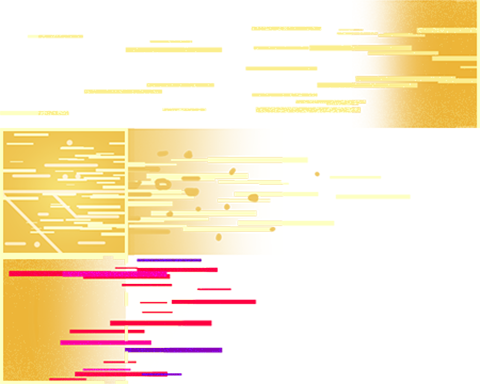
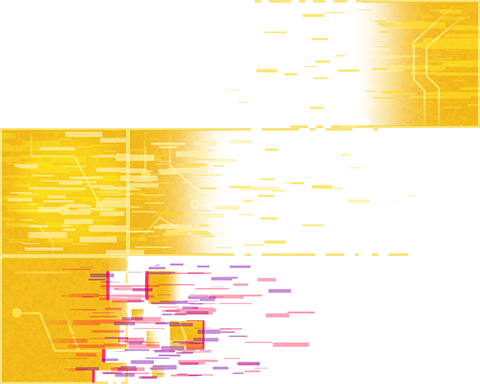
Sidetrack - Final UI implementation
Adding a few new assets and replacing placeholder art.
https://phabricator.endlessm.com/T26372

diff --git a/com.endlessm.Sidetrack/app/js/scenes/gameScene.js b/com.endlessm.Sidetrack/app/js/scenes/gameScene.js
@@ -130,7 +130,13 @@ class GameScene extends Phaser.Scene {
 
     create() {
         // create bg sprite
-        const bg = this.add.sprite(0, 0, 'background');
+        let bg;
+        if (globalParameters.currentLevel >= 40)
+            bg = this.add.sprite(0, 0, 'background3'); // for final and bonus level
+        else if (globalParameters.currentLevel >= 14)
+            bg = this.add.sprite(0, 0, 'background2'); // auto mode levels
+        else
+            bg = this.add.sprite(0, 0, 'background1'); // manual and default
 
         // change the origin to the top-left corner
         bg.setOrigin(0, 0);
@@ -536,9 +542,9 @@ class GameScene extends Phaser.Scene {
 
             if (this.obstacles[i].type === ROBOTB) {
                 if (this.robotBDirection === 'down')
-                    this.obstacles[i].sprite.setFrame(2);
-                else
                     this.obstacles[i].sprite.setFrame(3);
+                else
+                    this.obstacles[i].sprite.setFrame(2);
             }
         }
     }
@@ -696,7 +702,7 @@ class GameScene extends Phaser.Scene {
 
     drawTiles() {
         const minTile = 0;
-        const maxTiles = 4;
+        const maxTiles = 9;
 
         let x;
         let y;
@@ -953,9 +959,9 @@ class GameScene extends Phaser.Scene {
             }
 
             if (this.obstacles[i].type === ROBOTB) {
-                sprite = this.add.sprite(0, 0, 'robots', 3).setDepth(1);
+                sprite = this.add.sprite(0, 0, 'robots', 2).setDepth(1);
                 if (this.robotBDirection === 'down')
-                    sprite.setFrame(2);
+                    sprite.setFrame(3);
             }
 
             this.obstacles[i].sprite = sprite;

diff --git a/com.endlessm.Sidetrack/app/js/scenes/loadingScene.js b/com.endlessm.Sidetrack/app/js/scenes/loadingScene.js
@@ -34,7 +34,10 @@ class LoadingScene extends Phaser.Scene {
         }, this);
 
         // load assets
-        this.load.image('background', 'assets/images/background.png');
+        this.load.image('background1', 'assets/images/background1.png');
+        this.load.image('background2', 'assets/images/background2.png');
+        this.load.image('background3', 'assets/images/background3.png');
+        this.load.image('hackdex', 'assets/images/hackdex.png');
         this.load.image('pit', 'assets/images/pit.png');
         this.load.image('separator', 'assets/images/separator.png');
         this.load.image('restartIcon', 'assets/images/restartIcon.png');
@@ -56,8 +59,8 @@ class LoadingScene extends Phaser.Scene {
         });
 
         this.load.spritesheet('robots', 'assets/images/robots.png', {
-            frameWidth: 49,
-            frameHeight: 89,
+            frameWidth: 128,
+            frameHeight: 128,
             margin: 0,
             spacing: 0,
         });
@@ -106,7 +109,7 @@ class LoadingScene extends Phaser.Scene {
 
         this.load.spritesheet('walls', 'assets/images/walls.png', {
             frameWidth: 128,
-            frameHeight: 144,
+            frameHeight: 128,
             margin: 0,
             spacing: 0,
         });
